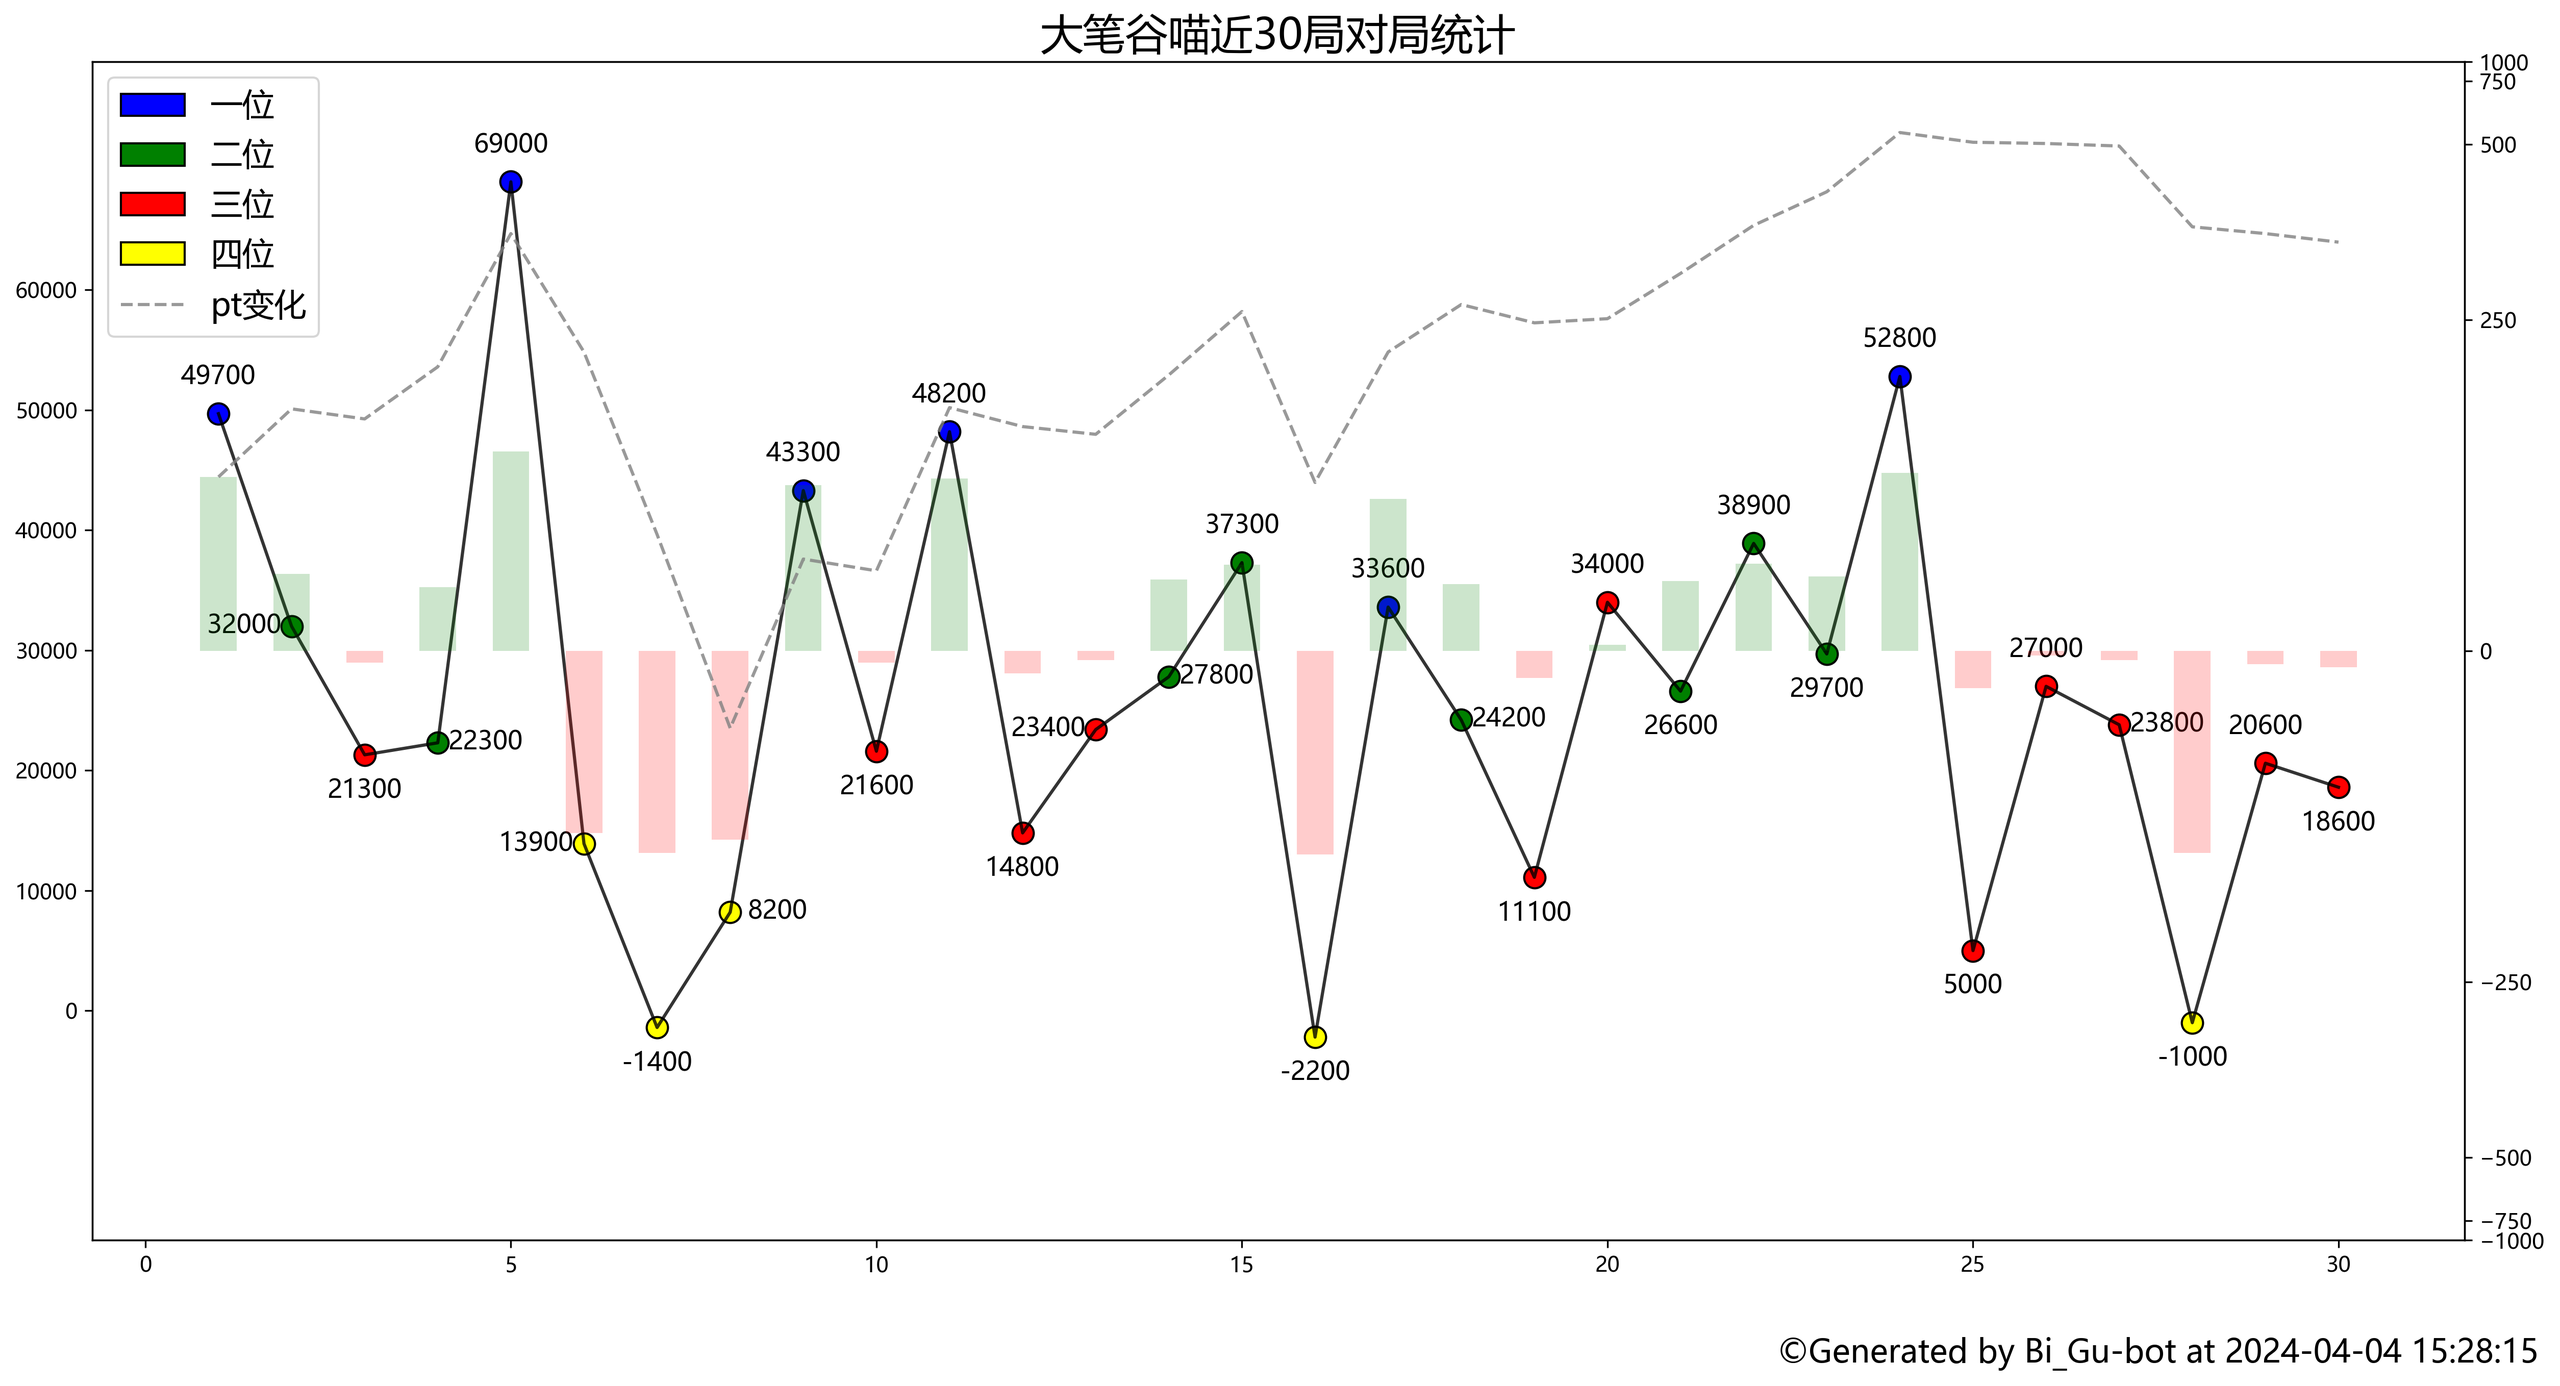
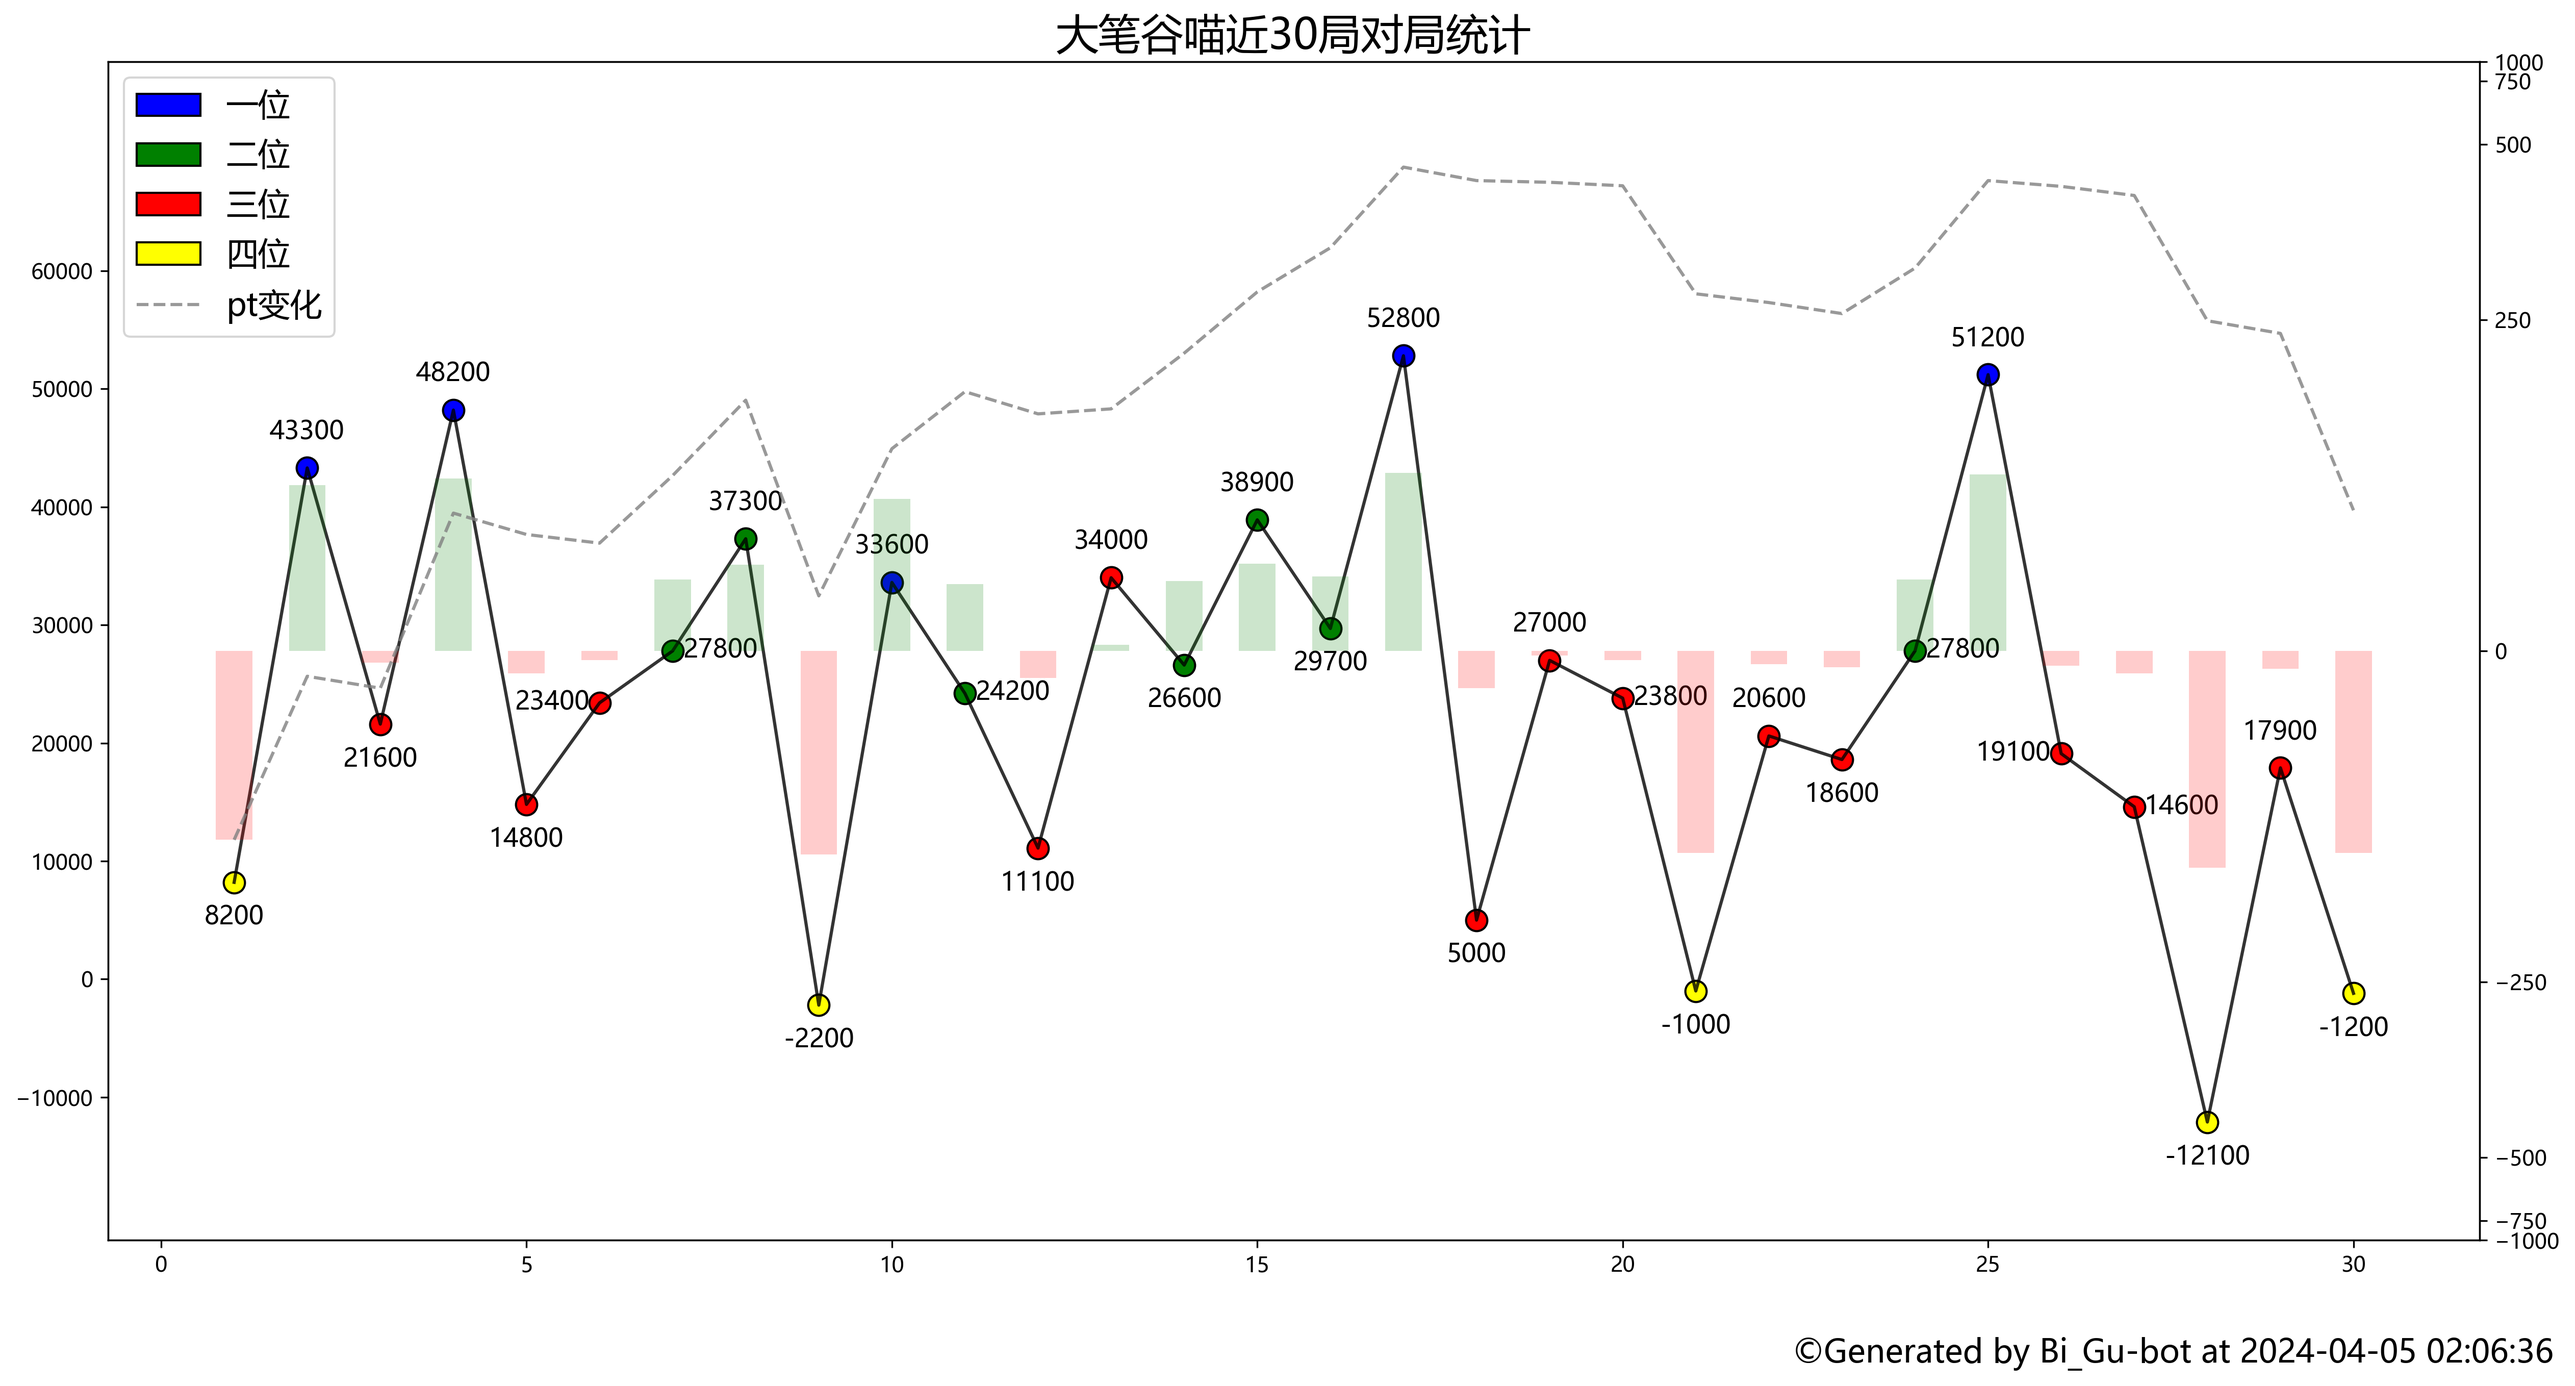
add rank percentage

diff --git a/src/plugins/mahjong/mahjongsoul.py b/src/plugins/mahjong/mahjongsoul.py
@@ -17,6 +17,7 @@ def get_user_data(username: str) -> MessageSegment:
     color_map = {0: 'blue', 1: 'green', 2: 'red', 3: 'yellow'}
     scores = [game["score"] for game in raw_user_data]
     ranks = [game["rank"] for game in raw_user_data]
+    rank_counts = [ranks.count(i) / len(ranks) * 100 for i in range(1, 5)]
     index = [i+1 for i in range(len(scores))]
     plt.style.use('default')
     plt.rcParams["font.sans-serif"] = ["Microsoft YaHei"]
@@ -30,8 +31,11 @@ def get_user_data(username: str) -> MessageSegment:
     fig.text(0.8, 0.03, "\u00A9" + f"Generated by Bi_Gu-bot at {datetime.datetime.now().strftime('%Y-%m-%d %H:%M:%S')}", 
              ha='center', fontsize = 15)
     ax.set_ylim(min_score - 10000, max_score + 10000)
-    ax.set_yticks(np.arange(int(min_score // 10000 + 1) * 10000, int(max_score // 10000 + 1) * 10000, 10000))
-    legend = {"一位": "blue", "二位": "green", "三位": "red", "四位": "yellow"}
+    ax.set_yticks(np.arange(int(min_score // 10000) * 10000, int(max_score // 10000 + 2) * 10000, 10000))
+    legend = {"一位:" + "{:.2f}".format(rank_counts[0]) + "%": "blue", 
+              "二位:" + "{:.2f}".format(rank_counts[1]) + "%": "green", 
+              "三位:" + "{:.2f}".format(rank_counts[2]) + "%": "red", 
+              "四位:" + "{:.2f}".format(rank_counts[3]) + "%": "yellow"}
     legend_elements = [Patch(facecolor=color, edgecolor='black', label=label) for label, color in legend.items()]
     legend_elements.append(plt.Line2D([0], [0], color = 'gray', alpha = 0.8, linestyle = '--', label='pt变化'))
     _ax = ax.twinx()
@@ -39,12 +43,8 @@ def get_user_data(username: str) -> MessageSegment:
     for i in range(len(pt_count)):
         delta_pt = pt_count[i]
         pt_change.append(pt_change[i] + delta_pt)
-        if delta_pt > 0:
-            pt_plus.append(delta_pt)
-            pt_minus.append(0)
-        else:
-            pt_plus.append(0)
-            pt_minus.append(delta_pt)
+        pt_plus += [delta_pt] if delta_pt > 0 else [0]
+        pt_minus += [0] if delta_pt > 0 else [delta_pt]
     pt_change = pt_change[1:]
     _ax.bar(index, pt_plus, color = 'green', alpha = 0.2, width = 0.5)
     _ax.bar(index, pt_minus, color = 'red', alpha = 0.2, width = 0.5)
